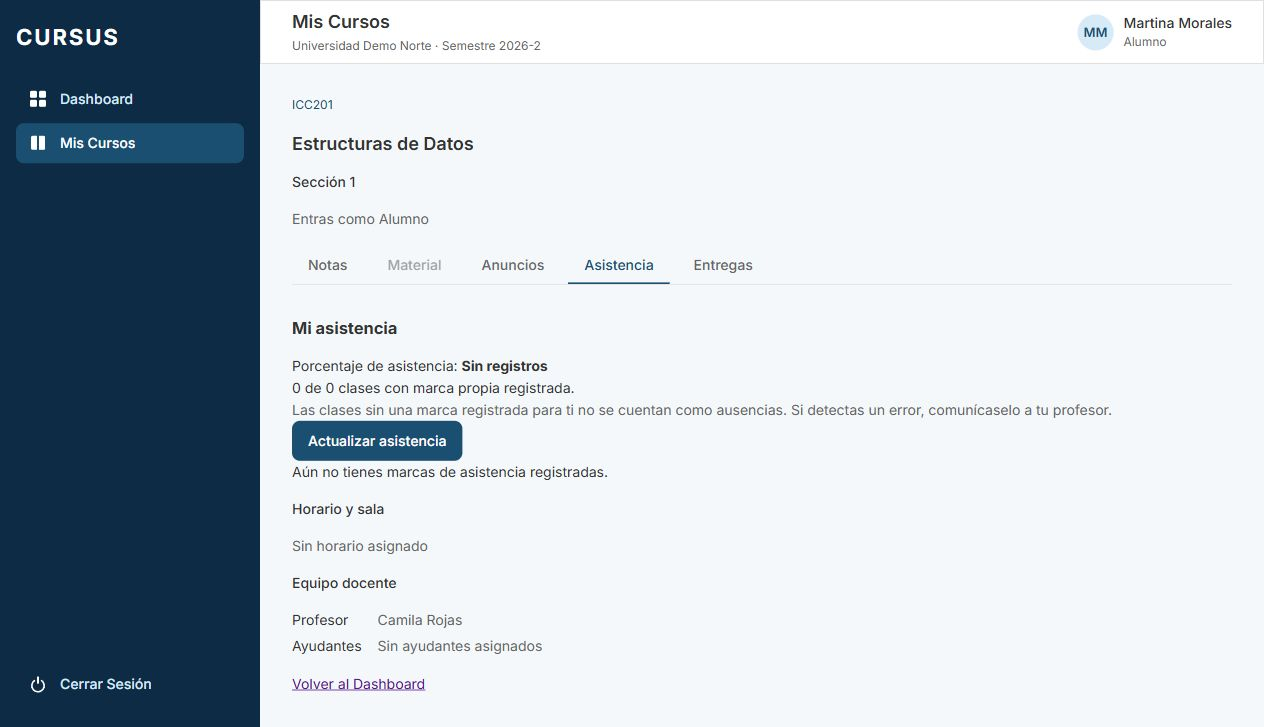
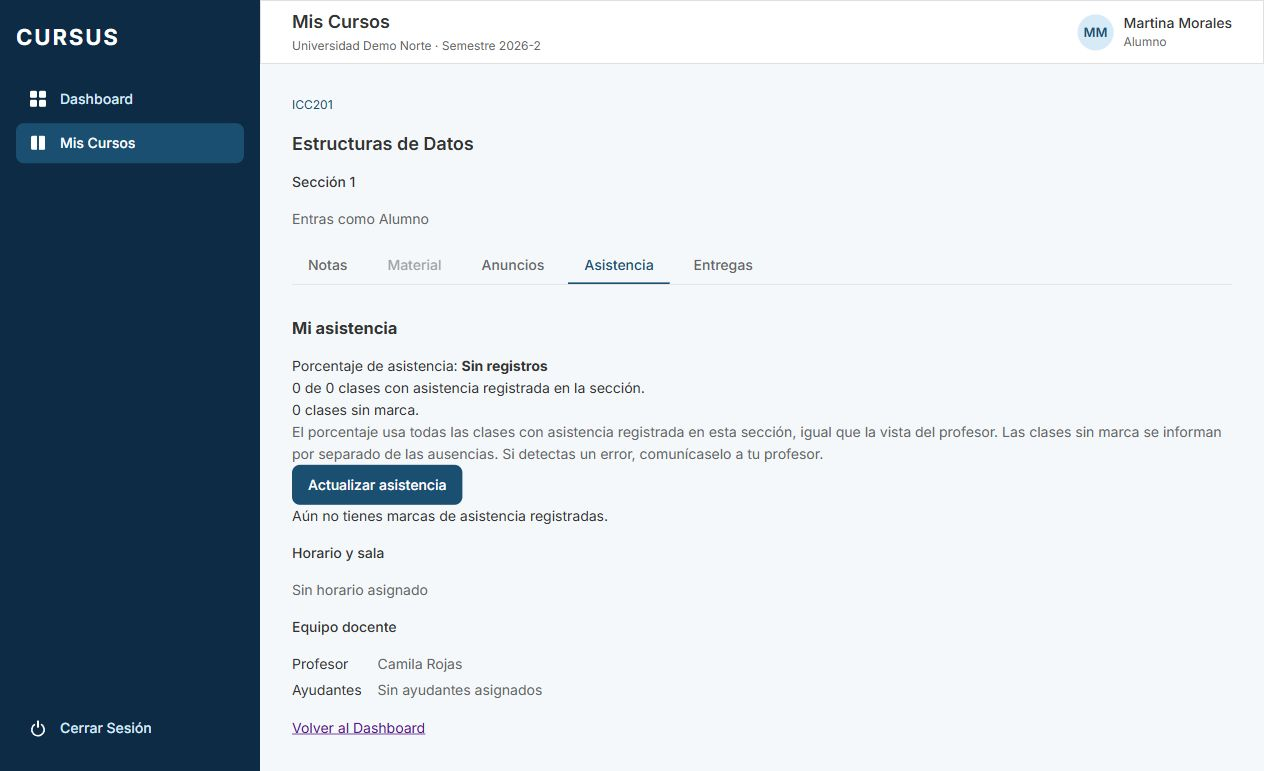
docs(asistencia): aclara el calculo por seccion y la migracion

diff --git a/docs/asi-06-asistencia-alumno.md b/docs/asi-06-asistencia-alumno.md
@@ -6,9 +6,9 @@
 
 Desde Dashboard o Mis Cursos, el alumno abre su sección y la pestaña **Asistencia**. Ve cada marca propia vigente con fecha, bloque y Presente/Ausente, de fecha más reciente a más antigua; en un mismo día, el bloque más reciente primero. El contexto del curso y la sección permanece visible.
 
-El backend devuelve el porcentaje redondeado a dos decimales, junto con la fracción de clases asistidas y registradas. Por ejemplo: dos presentes y un ausente → **66,67 %**, **2 de 3**. Sin marcas devuelve `null`, que se presenta como **Sin registros**, nunca como 0 %. El navegador solo aplica el formato español al número recibido.
+El backend devuelve el porcentaje **por sección**, redondeado a dos decimales, junto con la fracción de clases asistidas y registradas y **N clases sin marca**. No combina las secciones de un curso ni distintos períodos. Por ejemplo: dos presentes y un ausente → **66,67 %**, **2 de 3**. Sin clases con asistencia registrada en la sección devuelve `null`, presentado como **Sin registros**. Si existen clases registradas pero ninguna marca propia, muestra **0 %** y el número de clases sin marca. El navegador solo aplica formato al número recibido.
 
-**Denominador explícito para revisión funcional:** son las clases con una marca propia activa del alumno en esa sección; una clase pendiente o sin marca propia (por ejemplo, anterior a su inscripción) no se inventa como Ausente ni entra en el porcentaje. Las marcas y clases archivadas se excluyen. ASI-05 usa el total común de clases registradas de la sección y expone `sinMarca`: ambos porcentajes coinciden si el alumno tiene marca en todas ellas, pero pueden diferir para una incorporación tardía. La interfaz explica el alcance. No se modifica el criterio de ASI-05 en esta tarjeta; validar con el cliente si se desea unificarlo en el futuro.
+**Cálculo compartido con ASI-05:** `100 × presentes propios / clases activas con asistencia registrada en la sección`. Una clase se cuenta una sola vez si tiene al menos una marca activa de cualquier alumno. Las clases pendientes o archivadas no cuentan. `sinMarca = total de clases registradas − marcas propias activas`. Con 10 clases registradas y 8 presentes propios, profesor y alumno ven **80 %**, **8 de 10** y **2 clases sin marca**. Las clases sin marca entran en el denominador pero no se inventan filas Ausente: se informan por separado, también para incorporaciones tardías. La función SQL de conteo y la expresión de redondeo son comunes a ambas vistas.
 
 **Actualizar asistencia** vuelve a consultar las marcas y el porcentaje; también se consultan al volver a abrir la pestaña. Así se reciben guardados y correcciones de ASI-02/ASI-04 sin persistir un porcentaje derivado. No hay sincronización automática entre navegadores. Carga, error y reintento conservan los estados del sistema. Ante un error de recarga se retira la tabla hasta un reintento exitoso. Cambiar de sección remonta la vista para no conservar datos del curso anterior.
 
@@ -32,15 +32,26 @@ El backend devuelve el porcentaje redondeado a dos decimales, junto con la fracc
   ],
   "registradas": 1,
   "asistidas": 1,
+  "sinMarca": 0,
   "porcentaje": 100
 }
 ```
 
-Requiere sesión, rol ALUMNO y pertenencia activa a la sección. El guard de ESP-06 verifica acceso; el servicio comprueba el rol de sesión y de sección, y SQL revalida inscripción y curso/sección/clase activos. Universidad e identidad salen de la sesión, no de parámetros de consulta. Los JOIN incluyen universidad. Una sola sentencia SQL agrega únicamente las filas propias y produce lista, contadores y porcentaje en el mismo snapshot. El `numeric` redondeado se convierte a `double precision` para entregar un número JSON.
+Requiere sesión, rol ALUMNO y pertenencia activa a la sección. El guard de ESP-06 verifica acceso; el servicio comprueba el rol de sesión y de sección, y SQL revalida inscripción y usuario/curso/sección/clase activos. Universidad e identidad salen de la sesión, no de parámetros de consulta. Los JOIN incluyen universidad. Una sola sentencia SQL combina el listado y los presentes propios con el conteo agregado de la sección para producir lista, contadores y porcentaje en el mismo snapshot. El `numeric` redondeado se convierte a `double precision` para entregar un número JSON.
 
 Se conserva RLS de ASI-04: `app.asistencia_alumno_id` se fija desde la sesión en la transacción y se combina con universidad/rol. El alumno no recibe nombres, correos, marcas ajenas, responsable, motivos ni historial de correcciones. Los endpoints completos del profesor continúan denegados. Sin sesión: 401; sección mal formada: 400; sin acceso: 403; sección/curso archivados o sección de otra universidad: 404, según ESP-06.
 
-El GET anterior `/mi-asistencia` sigue devolviendo `AsistenciaPropia[]`, reutilizando la consulta del resumen. No se requieren migraciones, seed nuevo, cambios de RLS ni permisos nuevos.
+El GET anterior `/mi-asistencia` sigue devolviendo `AsistenciaPropia[]` por compatibilidad con ASI-04: comparte el filtro de marcas propias, pero consulta solo el listado, sin calcular agregados. El frontend usa `/mi-asistencia/resumen`.
+
+## Migración y conteo seguro
+
+Aplicar `1792720000000-ContarClasesAsistencia` antes de iniciar el backend actualizado (`npm run migration:run --workspace=backend`). No modifica marcas, datos existentes ni la política RLS. El timestamp se comprobó contra develop y las migraciones de los PR abiertos.
+
+`public.total_clases_asistencia(seccion uuid)` devuelve exclusivamente un entero. Usa `SECURITY DEFINER` para contar también clases sin marca propia sin abrir al alumno la lectura de las marcas ajenas. Es `STABLE`, por lo que el conteo y el listado pertenecen al mismo snapshot de la sentencia. Tiene `search_path = pg_catalog`, tablas y funciones del sistema de contexto calificadas con `public`, sin SQL dinámico. Se revoca EXECUTE de PUBLIC y solo se concede a `cursus_app`.
+
+La función filtra universidad de sesión y clase/sección/curso activos. Para ALUMNO exige además identidad fijada desde sesión, usuario activo y una inscripción vigente en la sección. Sin contexto, con otra universidad, rol distinto de ALUMNO/PROFESOR o sin inscripción, devuelve 0. Para PROFESOR mantiene el alcance de lectura institucional existente; el guard y el servicio siguen exigiendo que sea el profesor vigente de esa sección antes de devolver el resumen. Esta función no reemplaza los controles de acceso de los endpoints ni devuelve ids de clase, marcas o identidades de compañeros.
+
+`down` elimina únicamente la función. Para revertir funcionalmente, desplegar también la versión anterior del backend; los datos y la RLS quedan intactos. La prueba de esquema revierte y vuelve a aplicar toda la cadena.
 
 ## Pruebas automatizadas
 
@@ -63,7 +74,7 @@ npm run test --workspace=frontend -- src/pages/MiAsistencia.test.tsx src/pages/A
 npm run test:db --workspace=backend -- test/asistencia/asistencia.db-spec.ts
 ```
 
-La suite DB cubre ausencia de registros, 0/66,67/100 %, orden por fecha/bloque, clases pendientes, archivo, inscripción retirada, guardado/corrección mediante HTTP real, ids de alumno/universidad manipulados, otra sección del mismo curso, otra universidad y roles no autorizados. Conserva las pruebas directas de RLS de ASI-04 (sin identidad, solo marca propia y denegación del historial). Frontend verifica fracción, formato, porcentaje recibido sin recalcular, estados vacíos/error/reintento, Actualizar, reapertura y ausencia de solicitudes a listas de compañeros.
+La suite DB cubre ausencia de registros, 0/66,67/100 %, orden por fecha/bloque, clases pendientes, archivo, inscripción retirada, guardado/corrección mediante HTTP real, ids manipulados y aislamiento de sección/universidad/rol. La regresión consulta ambos endpoints con 10 clases, 8 presentes y 2 sin marca y exige 80 % en ambos; después retira todas las marcas propias y verifica 0 %, 10 sin marca y listado vacío. También invoca el conteo bajo el rol real de la API para comprobar universidad, identidad, inscripción y roles, denegación de EXECUTE a PUBLIC y que SELECT de asistencia siga devolviendo solo la marca propia. Conserva los tests directos de RLS de ASI-04. Frontend verifica el contador sin marca separado de Ausente, fracción, formato, porcentaje recibido, estados vacíos/error/reintento, Actualizar y reapertura.
 
 ## Pasos para el compañero que revisa
 
@@ -74,13 +85,14 @@ La suite DB cubre ausencia de registros, 0/66,67/100 %, orden por fecha/bloque, 
 5. Abrir otro curso inscrito sin marcas. Esperar **Sin registros**, **0 de 0** y mensaje vacío; no quedan marcas del curso anterior. Para un curso con una única marca Ausente, esperar **0 %**.
 6. En Red, repetir el GET propio agregando `?alumnoId=<B>&universidadId=<otra>`: sigue entregando solo A. Cambiar el id de sección a una sin inscripción debe negar acceso; a otra universidad, 404. Como A no se puede consultar la lista completa del profesor ni historial. Una sesión cerrada responde 401.
 7. Retirar la inscripción de A en el entorno de pruebas y reintentar: acceso denegado. Simular un error de red: mensaje y Reintentar; al recuperar la conexión vuelve a cargar. Revisar consola sin errores no manejados.
+8. Para el caso bloqueante: registrar dos clases para B antes de inscribir a A; inscribir a A y registrar otras ocho como Presente para A. Abrir el resumen del profesor y Asistencia de A: ambos deben mostrar **80 %**, **8 de 10** y **2 clases sin marca**. El alumno ve únicamente sus ocho filas. Una clase adicional pendiente no altera el cálculo. Si se archivan todas las marcas de una clase, deja de contar para ambos.
 
 ## Evidencia local
 
-Validación del 5 de noviembre de 2026: build, lint y format:check locales aprobados; frontend 462/462, backend unitarios 484/484 y e2e 279/279. PostgreSQL local: 1298/1299, con un único timeout de 5 s en el comando real del seed GES-20 (sin ampliar su timeout ni modificar ese test). En el [CI de validación](https://github.com/Joaquincuevas/SOFT-G2-CURSUS/actions/runs/42071128467), PostgreSQL pasó 1299/1299, incluidos asistencia 89/89 y seed-facultad 12/12; las otras suites también pasaron: **2524 pruebas en total**.
+La revisión del denominador se verifica con las suites de asistencia (ASI-02/04/05/06) y de reversión completa de migraciones, además del CI del PR. Los resultados de la revisión se registran en la descripción del PR.
 
-Capturas con Nest y PostgreSQL reales en una base temporal aislada, datos simulados, sesión de alumno. Tres clases marcadas y una pendiente en ICC101; ICC201 sin marcas. Se verificó Actualizar y navegación entre cursos, sin errores ni warnings de consola. La base temporal se eliminó al terminar.
+Capturas con Nest y PostgreSQL reales en una base temporal aislada, datos simulados, sesión de alumno. Diez clases con asistencia registrada, ocho presentes propios, dos sin marca propia y una pendiente en ICC101; ICC201 sin registros. Se verificó Actualizar y navegación entre cursos. La base temporal se elimina al terminar.
 
-![Marcas propias y 66,67 %](evidencias/asi-06-marcas.png)
+![Ocho presentes de diez clases, 80 % y dos sin marca](evidencias/asi-06-marcas.png)
 
 ![Otro curso sin registros](evidencias/asi-06-sin-registros.png)

diff --git a/docs/asi-05-porcentaje-asistencia.md b/docs/asi-05-porcentaje-asistencia.md
@@ -16,6 +16,8 @@ Definiciones de alcance:
 
 La consulta calcula numeradores y denominador en una sola sentencia/snapshot, sin una consulta por alumno. No hay porcentajes almacenados ni caché de cálculo. Excluye otras secciones/universidades y clases/marcas archivadas. Si todas las marcas de una clase se archivan, deja de contar como registrada, coherente con la lectura de ASI-02.
 
+Desde ASI-06, el denominador usa `public.total_clases_asistencia(seccion)` y el redondeo usa la expresión compartida `porcentaje.sql.ts`, también utilizados por la vista propia del alumno. Así ambos muestran el mismo porcentaje, incluso con clases sin marca. La migración y los límites de acceso de la función agregada se explican en la [guía ASI-06](asi-06-asistencia-alumno.md#migración-y-conteo-seguro).
+
 ## Permisos y API
 
 `GET /api/espacio/secciones/:id/asistencia/resumen` devuelve `ResumenAsistenciaSeccion`:
